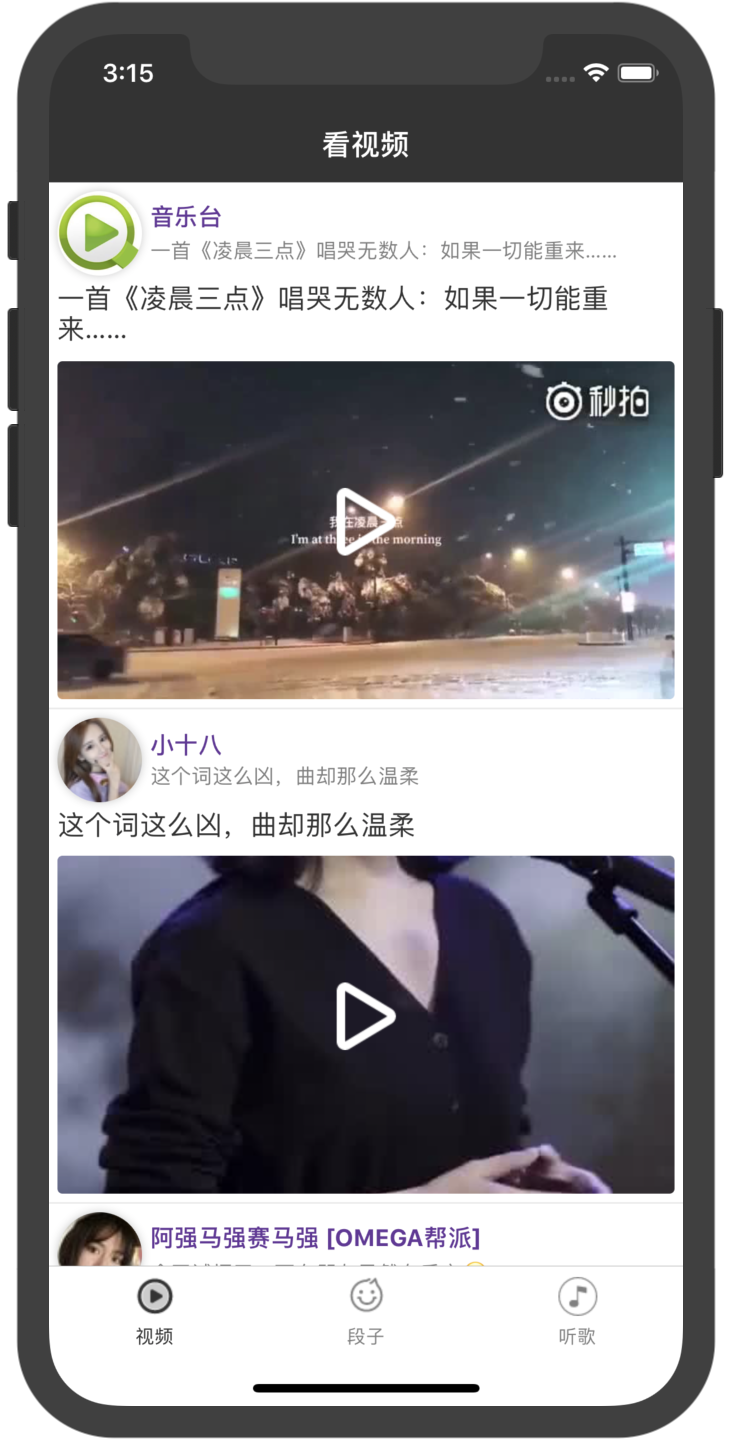
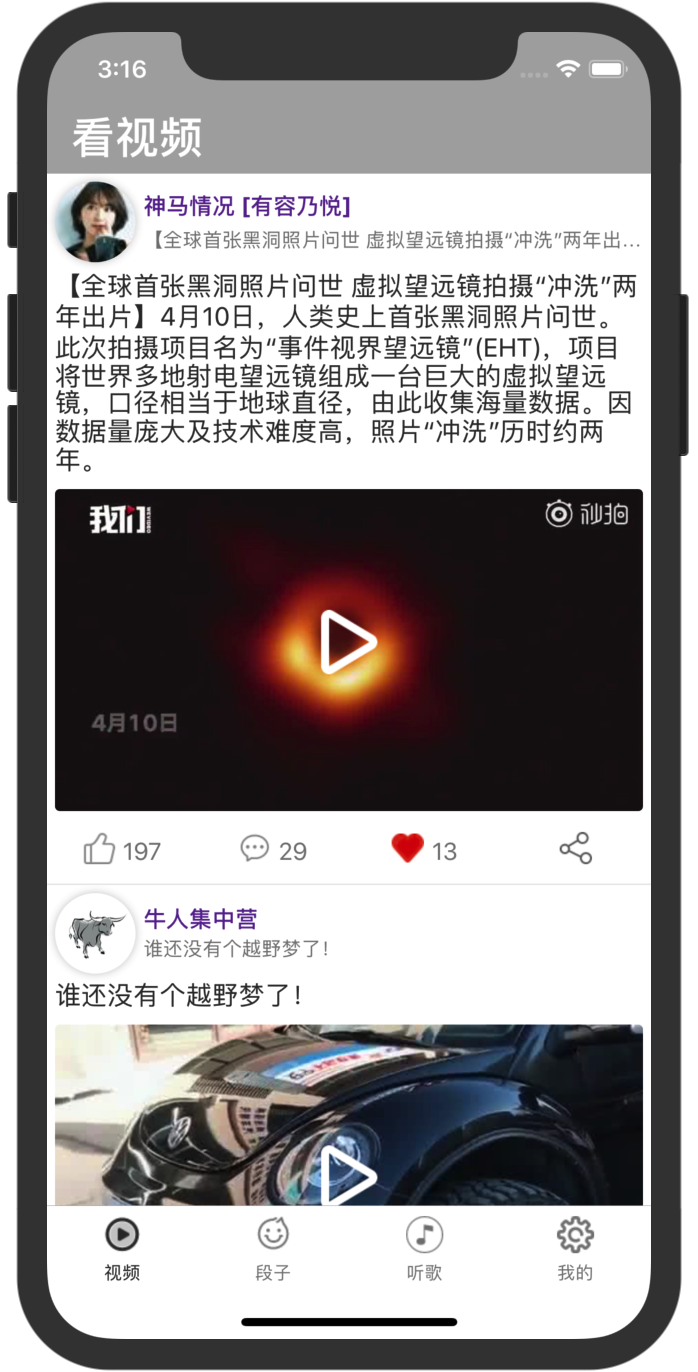
Theme
Theme

diff --git a/components/setting/FavoritePage.js b/components/setting/FavoritePage.js
@@ -77,13 +77,13 @@ export default class FavoritePage extends Component {
     _shareHeart(item){
      return <TouchableWithoutFeedback onPress={()=>this._deleteCollect(item)}>
                 <Image style={{
-                    width:25,
-                    height:25,
-                    marginLeft:Dimensions.get('window').width-143,
+                    width:26,
+                    height:26,
+                    marginLeft:Dimensions.get('window').width-142,
                     marginBottom:5,
                     resizeMode:'contain'
                 }}
-                source={require('../src/heart_active.png')}
+                source={require('../src/heart_grey.png')}
                 >
                 </Image>
             </TouchableWithoutFeedback>
@@ -98,17 +98,21 @@ export default class FavoritePage extends Component {
          });
     }
     _colorViews(){
-        var colors = ['#66CDAA','#FF6A6A','#1E90FF','#AB82FF','#333333'];
+        var colors = ['#66CDAA','#FF6A6A','#1E90FF','#AB82FF','#333333',
+                      '#ADADAD','#8FBC8F','#32CD32','#6E7B8B','#7AC5CD'];
         var colorViews = [];
         colors.map((f)=>{
             colorViews.push(
                 <TouchableWithoutFeedback key={f} onPress={()=>this._selectThemeIndex(f)}>
                         <View style={{
                             backgroundColor:f,
-                            width:60,
-                            height:60,
-                            borderRadius:30,
+                            borderRadius:10,
+                            height:40,
+                            margin:10,
+                            marginBottom:0,
+                            justifyContent:'center'
                         }}>
+                            <Text style={{textAlign:'center',color:'white',fontSize:16}}>{f}</Text>
                         </View>
                 </TouchableWithoutFeedback>
             );
@@ -119,11 +123,11 @@ export default class FavoritePage extends Component {
     }
     _renderRow(item){
         return <TouchableWithoutFeedback key={item.imageUrl} onPress={()=>this._clickItem(item)}>
-                    <View style={{flex:1,height:106,marginHorizontal:5,marginTop:5}}>
+                    <View style={{flex:1,height:76,marginHorizontal:5,marginTop:5}}>
                         <View style={{flex:1,flexDirection:'row',justifyContent:'center'}}>
-                            <Image style={{width:100,height:100,borderRadius:5}} source={{uri:item.imageUrl}}></Image>
+                            <Image style={{width:100,height:70,borderRadius:5}} source={{uri:item.imageUrl}}></Image>
                             <View style={{flex:1}}>
-                                <Text numberOfLines={3} ellipsizeMode="tail" style={{flex:1,fontSize:16,color:'#333333',textAlign:'left',marginLeft:8,overflow:'hidden'}}>{item.content}</Text>
+                                <Text numberOfLines={2} ellipsizeMode="tail" style={{flex:1,fontSize:15,color:'grey',textAlign:'left',marginLeft:8,overflow:'hidden'}}>{item.content}</Text>
                                 {this._shareHeart(item)}
                             </View>
                         </View>
@@ -146,7 +150,7 @@ export default class FavoritePage extends Component {
                         renderItem = {({item}) => this._renderRow(item)}
                     />:
                     <ScrollView style={{flex:1}}>
-                        <View style={{justifyContent:"space-evenly",flexDirection:'row',flex:1,margin:5}}>
+                        <View style={{flex:1,margin:5}}>
                             {this._colorViews()}
                         </View>
                     </ScrollView>

diff --git a/components/tabbar/LZKKTabBar.js b/components/tabbar/LZKKTabBar.js
@@ -30,7 +30,7 @@ const setting_normal = require('../src/setting.png');
 const setting_selected = require('../src/setting_selected.png');
 
 export const THEMEConfig = {
-  THEMECOLOR:'#333333',
+  THEMECOLOR:'#ADADAD',
   themeListen(){
     DeviceEventEmitter.addListener('THEMECOLOR',function(color){
       THEMEConfig.THEMECOLOR = color;
@@ -124,8 +124,8 @@ const TabRouteConfigs = {
                           paddingLeft:15,
                         }}
                         >
-                        <Text style={{color:'white',fontSize:30,textAlign:'left',fontWeight:'bold',
-                                      width:100,lineHeight:40,marginTop:Dimensions.get('window').height>=812?40:16
+                        <Text style={{color:'white',fontSize:27,textAlign:'left',fontWeight:'bold',
+                                      width:100,lineHeight:40,marginTop:Dimensions.get('window').height>=812?45:21
                                     }}>
                            {titles[navigation.state.index]}
                           </Text>
@@ -137,18 +137,20 @@ const TabRouteConfigs = {
                           flexDirection:'row',
                           justifyContent:"space-between",
                           paddingLeft:15,
+
                         }}
                         >
-                          <Text style={{color:'white',fontSize:30,textAlign:'left',fontWeight:'bold',
-                                          width:120,lineHeight:40,marginTop:Dimensions.get('window').height>=812?40:16
+                          <Text style={{color:'white',fontSize:27,textAlign:'left',fontWeight:'bold',
+                                          width:120,lineHeight:40,
+                                          marginTop:Dimensions.get('window').height>=812?45:21
                                         }}>
                                   我的音乐
                             </Text>
-                          <Image style={{resizeMode:'contain',width:50,height:20,
-                                        marginTop:Dimensions.get('window').height>=812?58:34,
-                                        paddingTop:10,
+                          <Image style={{resizeMode:'contain',width:50,height:25,
+                                        marginTop:Dimensions.get('window').height>=812?60:34,
+                                        paddingTop:0,
                                       }} 
-                                  source={require('../src/dot-more.png')}>
+                                  source={require('../src/more.png')}>
                           </Image>
                         </View>:null
                 }),

diff --git a/components/commons/ShareView.js b/components/commons/ShareView.js
@@ -48,7 +48,8 @@ export default class ShareView extends Component {
         var that = this;
         DeviceEventEmitter.addListener('CANCEL_COLLECT',function(url){
             that.setState({
-                isCollected:url===that.state.shareUrl?false:that.state.isCollected
+                isCollected:url===that.state.shareUrl?false:that.state.isCollected,
+                forward:url===that.state.shareUrl?parseInt(that.state.forward)-1:parseInt(that.state.forward)+1
             });
         });
     }
@@ -122,6 +123,9 @@ export default class ShareView extends Component {
             })
             DBTool.insertVideo('',this.state.content,this.state.imageUrl,this.state.shareUrl);
             this.props.onTapCollected && this.props.onTapCollected(this.state.isCollected);
+            this.setState({
+                forward:this.state.isCollected?parseInt(this.state.forward)-1:parseInt(this.state.forward)+1
+            })
 
         }else if (index === 3) {
             //分享：
@@ -162,14 +166,14 @@ export default class ShareView extends Component {
         if (this.state.up.slice(0,1) == '"') {
             upMsg = this.state.up.slice(1,-1);
           }
-
-        const textDes = [upMsg,`${this.state.comment}`];
+        
+        const textDes = [upMsg,`${this.state.comment}`,`${this.state.forward}`];
         
         return <TouchableWithoutFeedback onPress={()=>this._clickIndex(index)}>
             <View style={{flex:1,justifyContent:'center',flexDirection:'row',}}>
             <Image style={{resizeMode:'contain',width:20,height:20}} source={img[index]}></Image>
-            {index<2?
-                <Text style={{fontSize:15,color:'grey',height:60,marginLeft:5,textAlign:'left',paddingTop:0}}>{textDes[index]}</Text>
+            {index<3?
+                <Text style={{fontSize:15,color:'grey',height:60,marginLeft:5,textAlign:'left',paddingTop:3}}>{textDes[index]}</Text>
                 :null
             }
             </View>
@@ -178,7 +182,11 @@ export default class ShareView extends Component {
 
     render(){
 
-        return <View style={{flex:1,height:40,alignContent:'space-between',justifyContent:'center',flexDirection:'row',marginHorizontal:20,paddingTop:10}}>
+        return <View style={{flex:1,height:40,
+                            justifyContent:'space-between',flexDirection:'row',
+                            marginHorizontal:0,paddingTop:13
+                           }}
+               >
                     {this._subIndex(0)}
                     {this._subIndex(1)}
                     {this._subIndex(2)}

diff --git a/README.md b/README.md
@@ -8,8 +8,8 @@
         4.下拉刷新、上拉加载；
         5.第三方登录与分享：QQ、微信；
         6.数据库react-native-sqlite2：视频收藏功能；
-        7.redux;
-        8.其他；
+        7.更换主题;
+        8.redux等其他内容；
 
 ### iOS：
 <h2 align"center">
@@ -25,15 +25,6 @@
 
 <img src="/pics/9.png" width="210" height="413"/>
 <img src="/pics/10.png" width="210" height="413"/>
-
-</h2>
-
-### Android：
-<h2 align"center">
-<img src="/pics/11.png" width="210" height="457"/>
-<img src="/pics/12.png" width="210" height="457"/>
-<img src="/pics/13.png" width="210" height="457"/>
-<img src="/pics/14.png" width="210" height="457"/>
 
 </h2>
 
